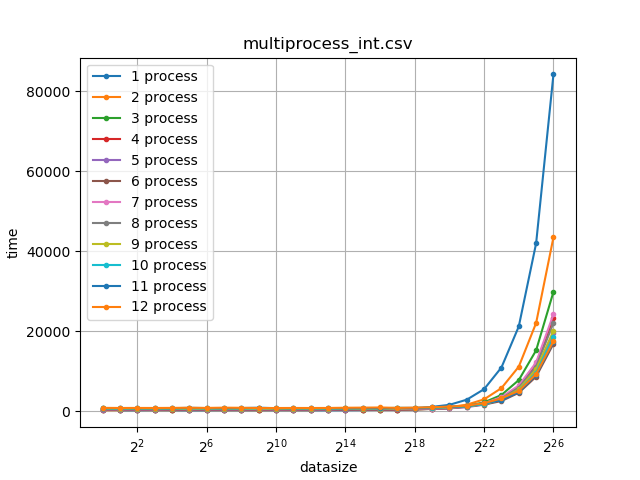
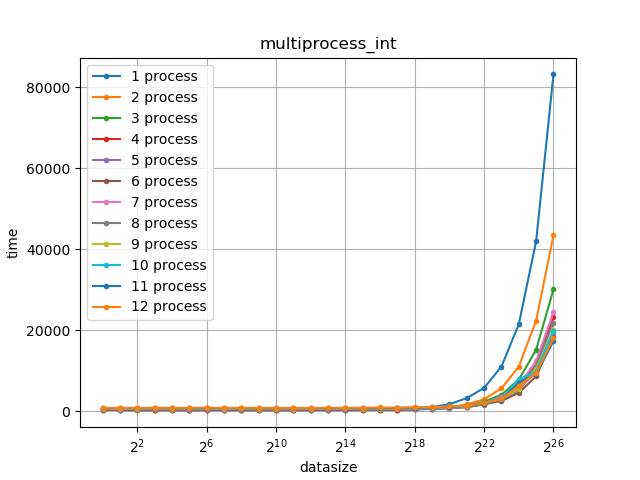
specify datasize

diff --git a/hw1/plot.py b/hw1/plot.py
@@ -10,8 +10,6 @@ path_list = ['multithread_int.csv', 'multiprocess_int.csv', \
 				'multithread_struct.csv', 'multiprocess_struct.csv']
 
 for i,path in enumerate(path_list):
-	plt.clf()
-	
 	X,Y,Z = [],[],[] #X:datasize, Y:thread, Z:time
 	with open(path, newline='') as csvfile:
 		rows = csv.reader(csvfile, delimiter=',')
@@ -22,9 +20,16 @@ for i,path in enumerate(path_list):
 			Z.append(int(row[2]))
 
 	plot_x, plot_y = [[] for i in range(12)], [[] for i in range(12)]
+	spec_datasize_plot_x = [[] for i in range(int(math.log(100000000,2)))]
+	spec_datasize_plot_y = [[] for i in range(int(math.log(100000000,2)))]
+
+	### specify thread/process ###
 	for total_points in range(len(X)):
 		plot_x[Y[total_points]-1].append(X[total_points])
 		plot_y[Y[total_points]-1].append(Z[total_points])
+
+		spec_datasize_plot_x[int(math.log(X[total_points],2))-1].append(Y[total_points])
+		spec_datasize_plot_y[int(math.log(X[total_points],2))-1].append(Z[total_points])
 
 	for thread in range(12): plt.plot(plot_x[thread],plot_y[thread], '.-')
 
@@ -37,6 +42,29 @@ for i,path in enumerate(path_list):
 		plt.legend([str(i+1)+" process" for i in range(12)])
 	plt.xlabel("datasize")
 	plt.ylabel("time")
-	plt.title(path)
+	plt.title(path[:-4])
 	plt.savefig(path[:-4]+".png")
 	# plt.show()
+	plt.clf()
+
+
+	### specify thread/process ###
+	legend_list = []
+	for k in range(int(math.log(100000000,2))):
+		if (k>=15) and (k<25):
+			legend_list.append("datasize=2^"+str(k))
+			plt.plot(spec_datasize_plot_x[k],spec_datasize_plot_y[k], '.-')
+
+	# plt.yscale("log", basex=2)
+	plt.grid()
+	plt.legend(legend_list)
+	# plt.legend(["datasize=2^"+str(k+1) for k in range(int(math.log(100000000,2)),3)])
+	if i%2==0:
+		plt.xlabel("thread")
+	else:
+		plt.xlabel("process")
+
+	plt.ylabel("time")
+	plt.title("specify_datasize "+path[:-4])
+	plt.savefig("specify_datasize "+path[:-4]+".png")
+	plt.clf()
